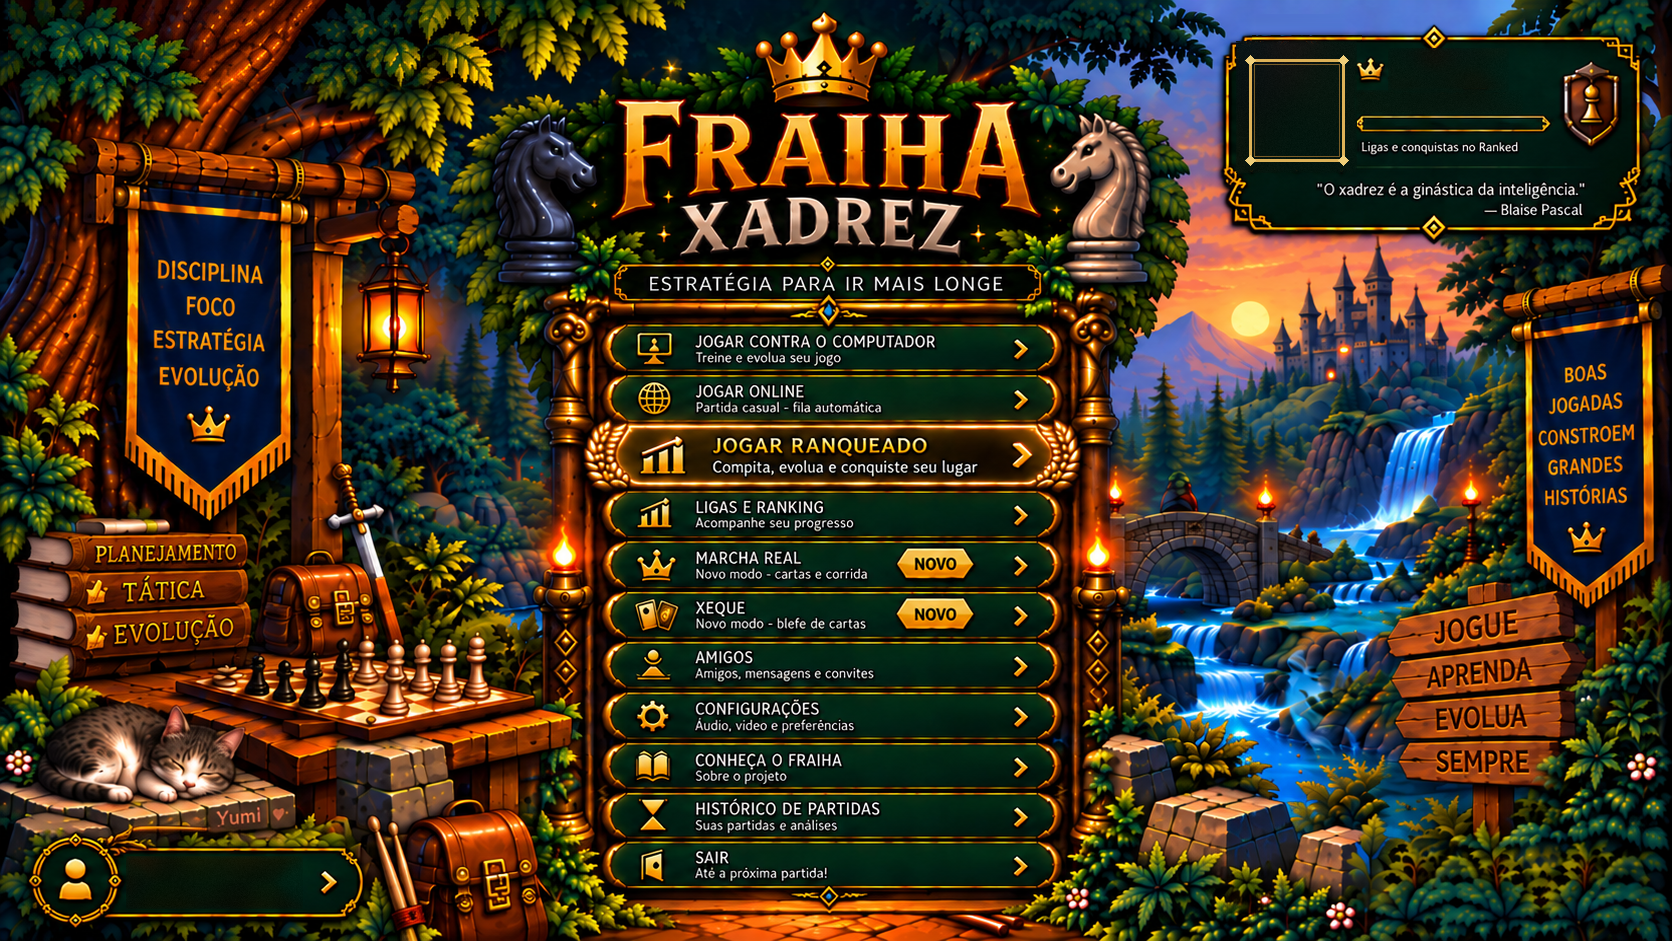
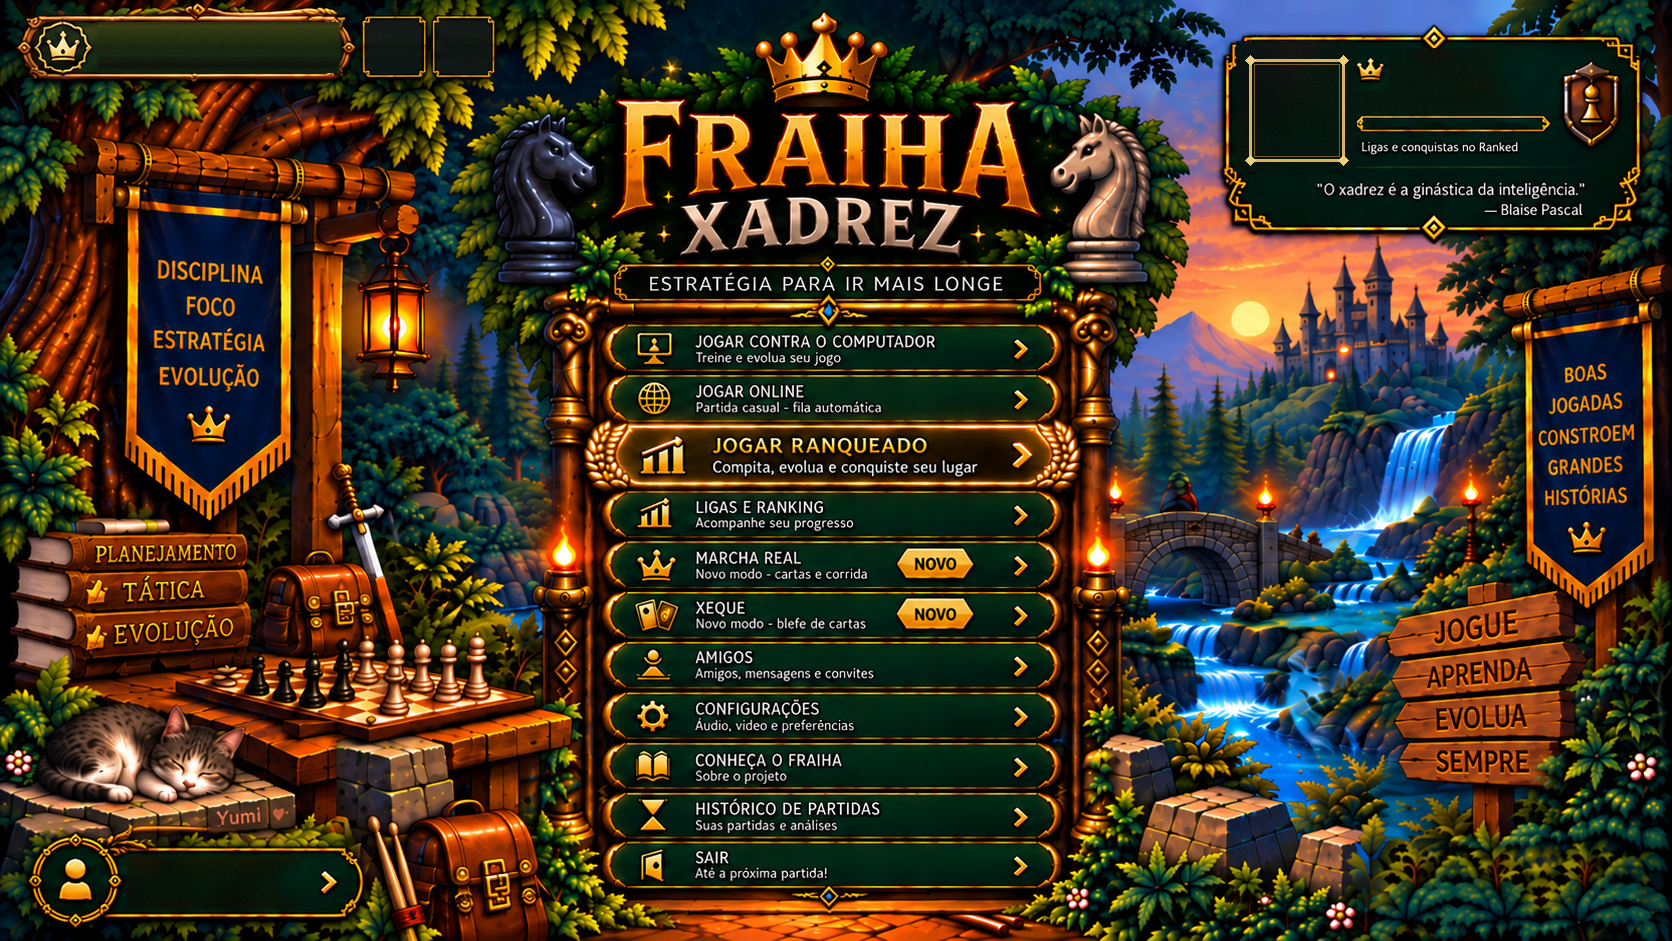
feat(home): R36 — botão do CLUB igual à referência (placa de madeira/ouro com coroa, selo ✓ quando ativo)
- a placa CLUB e os quadrados de som / tela cheia agora são os da arte de referência; o jogo só
  desenha os textos vivos (CLUB ATIVO / CLUB FRAIHA), o selo ✓ ou a seta, os ícones e o brilho do hover
- em temas sem a arte v7 os botões voltam ao estilo próprio (set_over_art)

Claude-Session: https://claude.ai/code/session_016vKvXoMfUjcNC2AWvYdkWV

Changed region(s): [[0.0, 0.0, 0.311, 0.0925]]

diff --git a/tools/home_ref_v7.py b/tools/home_ref_v7.py
@@ -3,8 +3,8 @@
 A referência é uma captura "ideal" da própria Home (com uma conta Club logada). Ela vira o fundo
 inteiro — menu com pilares e tochas, 11 linhas com textos e selos NOVO, logo, cenário — e só o que é
 VIVO no jogo é apagado da arte, para o Godot desenhar por cima com o estado real do jogador:
-  • canto superior esquerdo (CLUB / som / tela cheia): volta a folhagem da arte anterior (v6),
-    com a cor ajustada à referência e borda suave — os botões vivos ficam por cima;
+  • canto superior esquerdo: a placa CLUB e os quadrados de som / tela cheia ficam; saem só os
+    textos, o selo ✓ e os ícones (o jogo desenha o estado real por cima);
   • cartão de perfil: retrato + moldura Club, nome e selo ao lado, liga/PL; ficam a moldura do
     cartão, a coroa à esquerda do nome, a barra de PL (vazia), a legenda, a citação e o escudo;
     o lugar do retrato ganha uma moldura dourada simples (o retrato vivo encaixa nela);
@@ -42,22 +42,6 @@ def bright_mask(img, box, thr, grow=2):
     return m
 
 
-# ---------- 1. canto superior esquerdo: folhagem da v6 com a cor da referência ----------
-X0, Y0, X1, Y1 = 8, 0, 512, 96
-patch = old[Y0:Y1, X0:X1].astype(np.float64)
-# casa média e desvio por canal com a faixa logo abaixo (onde as duas artes mostram a mesma árvore)
-ra = ref[100:150, X0:X1].reshape(-1, 3).astype(np.float64)
-oa = old[100:150, X0:X1].reshape(-1, 3).astype(np.float64)
-patch = (patch - oa.mean(0)) / (oa.std(0) + 1e-6) * ra.std(0) + ra.mean(0)
-patch = np.clip(patch, 0, 255)
-alpha = np.ones((Y1 - Y0, X1 - X0))
-F = 14
-for i in range(F):
-    a = (i + 1) / (F + 1)
-    alpha[-1 - i, :] = np.minimum(alpha[-1 - i, :], a)       # borda de baixo suave
-    alpha[:, -1 - i] = np.minimum(alpha[:, -1 - i], a)       # borda da direita suave
-out[Y0:Y1, X0:X1] = (patch * alpha[..., None] + ref[Y0:Y1, X0:X1] * (1 - alpha[..., None])).astype(np.uint8)
-
 # ---------- 2. cartão de perfil ----------
 def fill_dark(img, mask, sigma=14, known_max=58):
     """Recompõe o fundo ESCURO do painel sob a máscara: média gaussiana só dos pixels escuros em volta
@@ -78,6 +62,39 @@ def fill_dark(img, mask, sigma=14, known_max=58):
     a = a[..., None]
     return (f * (1 - a) + filled * a).astype(np.uint8)
 
+
+# ---------- 1. canto superior esquerdo: a placa CLUB e os quadrados de som/tela cheia FICAM ----------
+# (pedido do dono: o botão do Club com o visual da referência). Só saem os textos e o selo ✓ da placa
+# e os ícones dos quadrados — o jogo desenha por cima o estado real (ativo/inativo, som, tela cheia).
+def fill_rows(img, box, lum_max=60):
+    """Cada fileira recebe a mediana dos pixels ESCUROS dela mesma (o fundo liso da placa, com o
+    degradê vertical da arte), mais um grão fino; as colunas das pontas se misturam suavemente."""
+    x0, y0, x1, y1 = box
+    res = img.copy()
+    rng = np.random.default_rng(7)
+    meds = []
+    for y in range(y0, y1 + 1):
+        row = img[y, x0:x1 + 1].astype(np.float64)
+        dark = row[row.mean(axis=1) < lum_max]
+        meds.append(np.median(dark, axis=0) if len(dark) >= 4 else None)
+    last = next(m for m in meds if m is not None)
+    for i in range(len(meds)):
+        if meds[i] is None: meds[i] = last
+        last = meds[i]
+    meds = cv2.GaussianBlur(np.array(meds)[:, None, :], (1, 5), 0)[:, 0, :]   # degradê sem degraus
+    for y in range(y0, y1 + 1):
+        row = img[y, x0:x1 + 1].astype(np.float64)
+        med = meds[y - y0]
+        fill = med + rng.normal(0, 1.4, (x1 - x0 + 1, 1))
+        a = np.ones(x1 - x0 + 1)
+        e = min(6, (x1 - x0) // 4)
+        a[:e] = np.linspace(0.2, 1, e); a[-e:] = np.linspace(1, 0.2, e)
+        res[y, x0:x1 + 1] = np.clip(row * (1 - a[:, None]) + fill * a[:, None], 0, 255).astype(np.uint8)
+    return res
+
+
+for box in [(95, 22, 342, 72), (369, 23, 420, 72), (439, 23, 489, 72)]:
+    out = fill_rows(out, box)
 
 # 2a. retrato + moldura Club (medalhão sobre a borda de cima): o painel verde é recomposto
 m = np.zeros(out.shape[:2], np.uint8)
